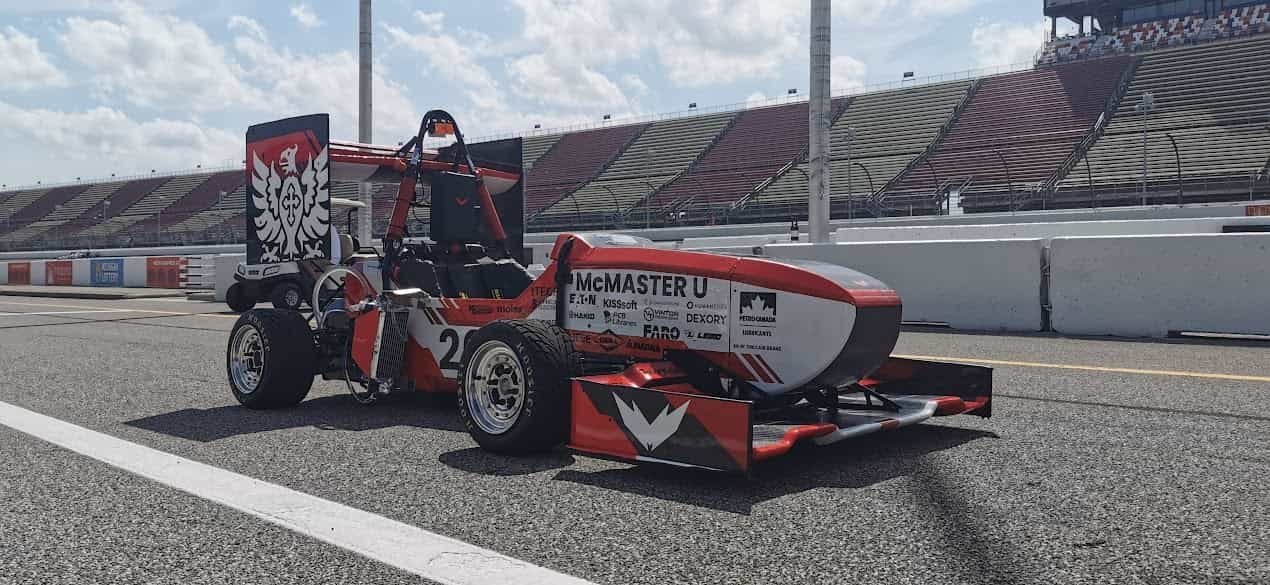
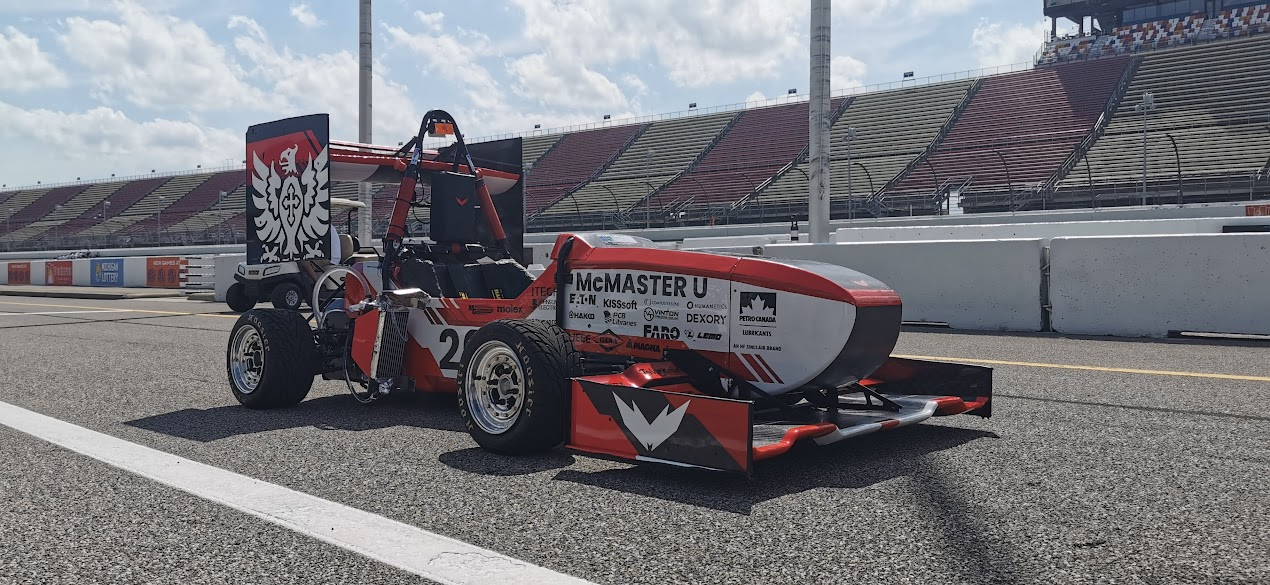
final 2025 gallery

diff --git a/docs/_galleries/gallery-1.md b/docs/_galleries/gallery-1.md
@@ -1,7 +1,7 @@
 ---
 layout: gallery
 title: MACFE 2025
-thumbnail: /gallery2025/1.PNG
+thumbnail: /gallery2025/1.jpg
 images:
     - /gallery2025/1.jpg
     - /gallery2025/2.jpg
